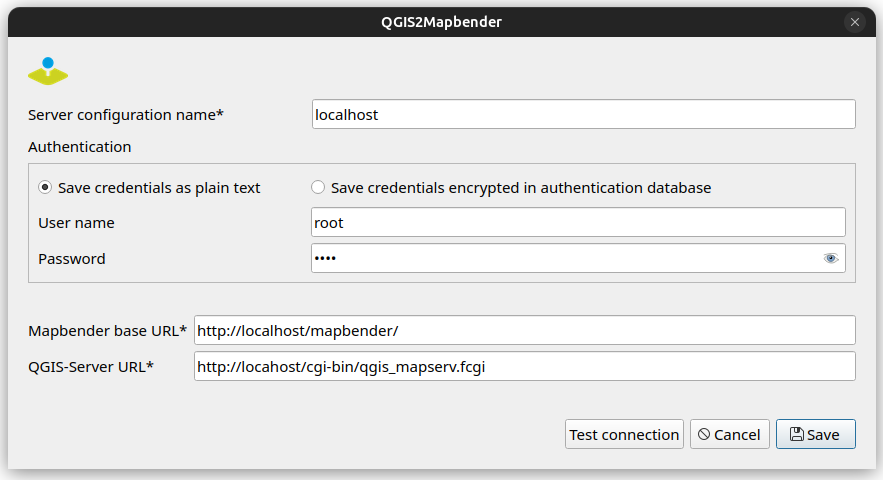
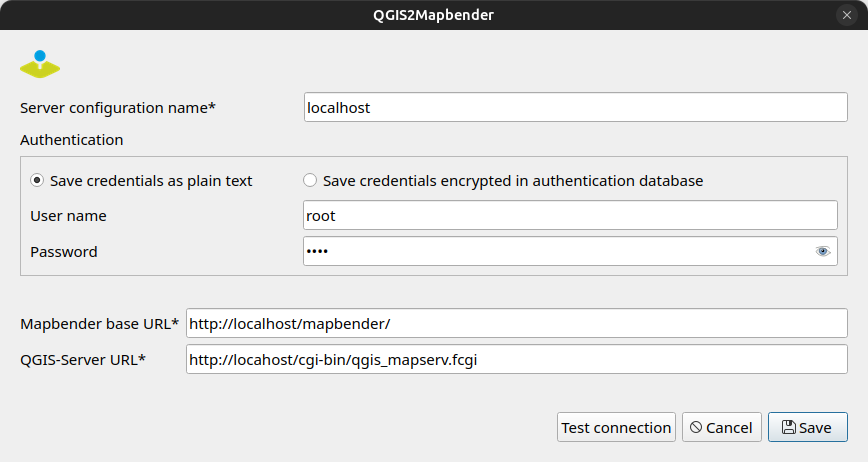
added new screenshots

Changed region(s): [[0.0, 0.0, 1.0, 1.0]]

diff --git a/README.md b/README.md
@@ -5,6 +5,8 @@ The QGIS2Mapbender plugin transfers your local QGIS project on a server and publ
 
 You find the QGIS2Mapbender in the QGIS Python Plugins Repository https://plugins.qgis.org/plugins/QGIS2Mapbender.
 
+![QGIS2Mapbender](resources/img_qgis2mapbender_readme.png)
+
 ## Installation and Requirements
 
 Please note that QGIS2Mapbender version >= 1.0.0 needs Mapbender version >= 4.1.2.
